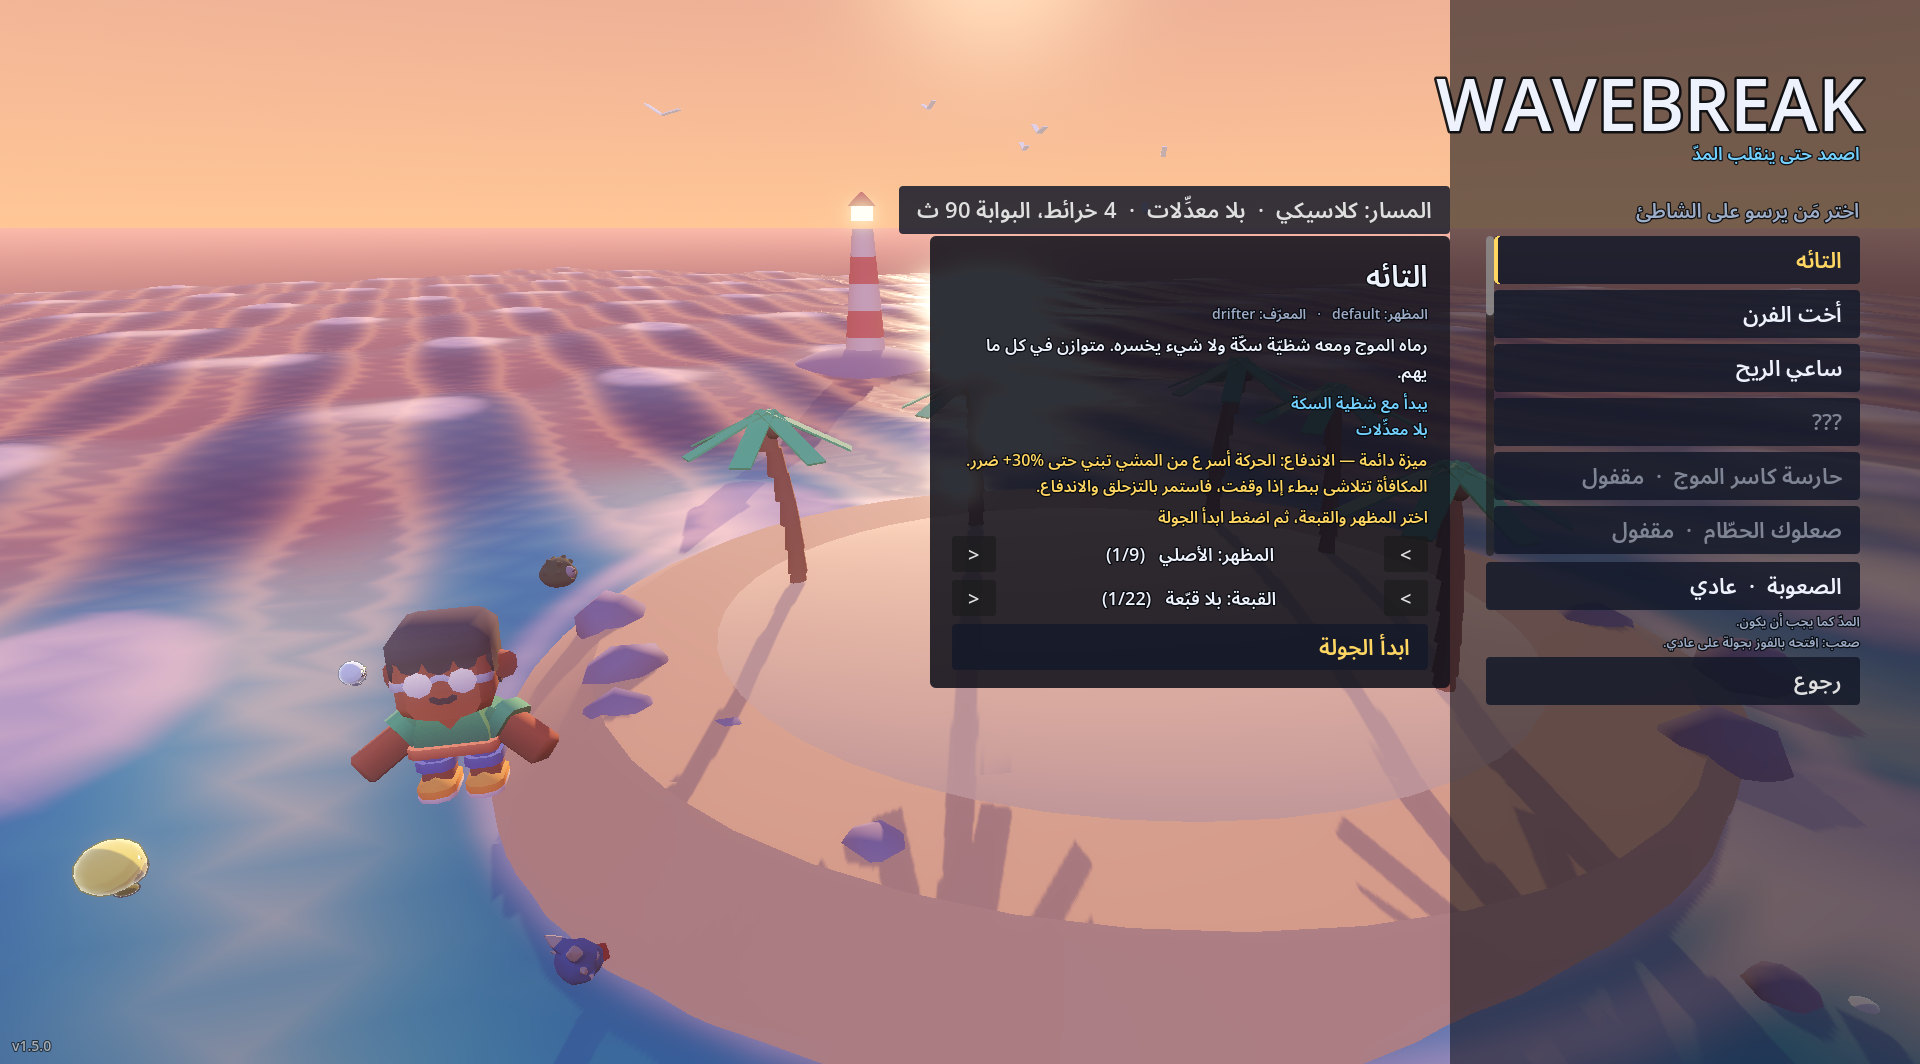
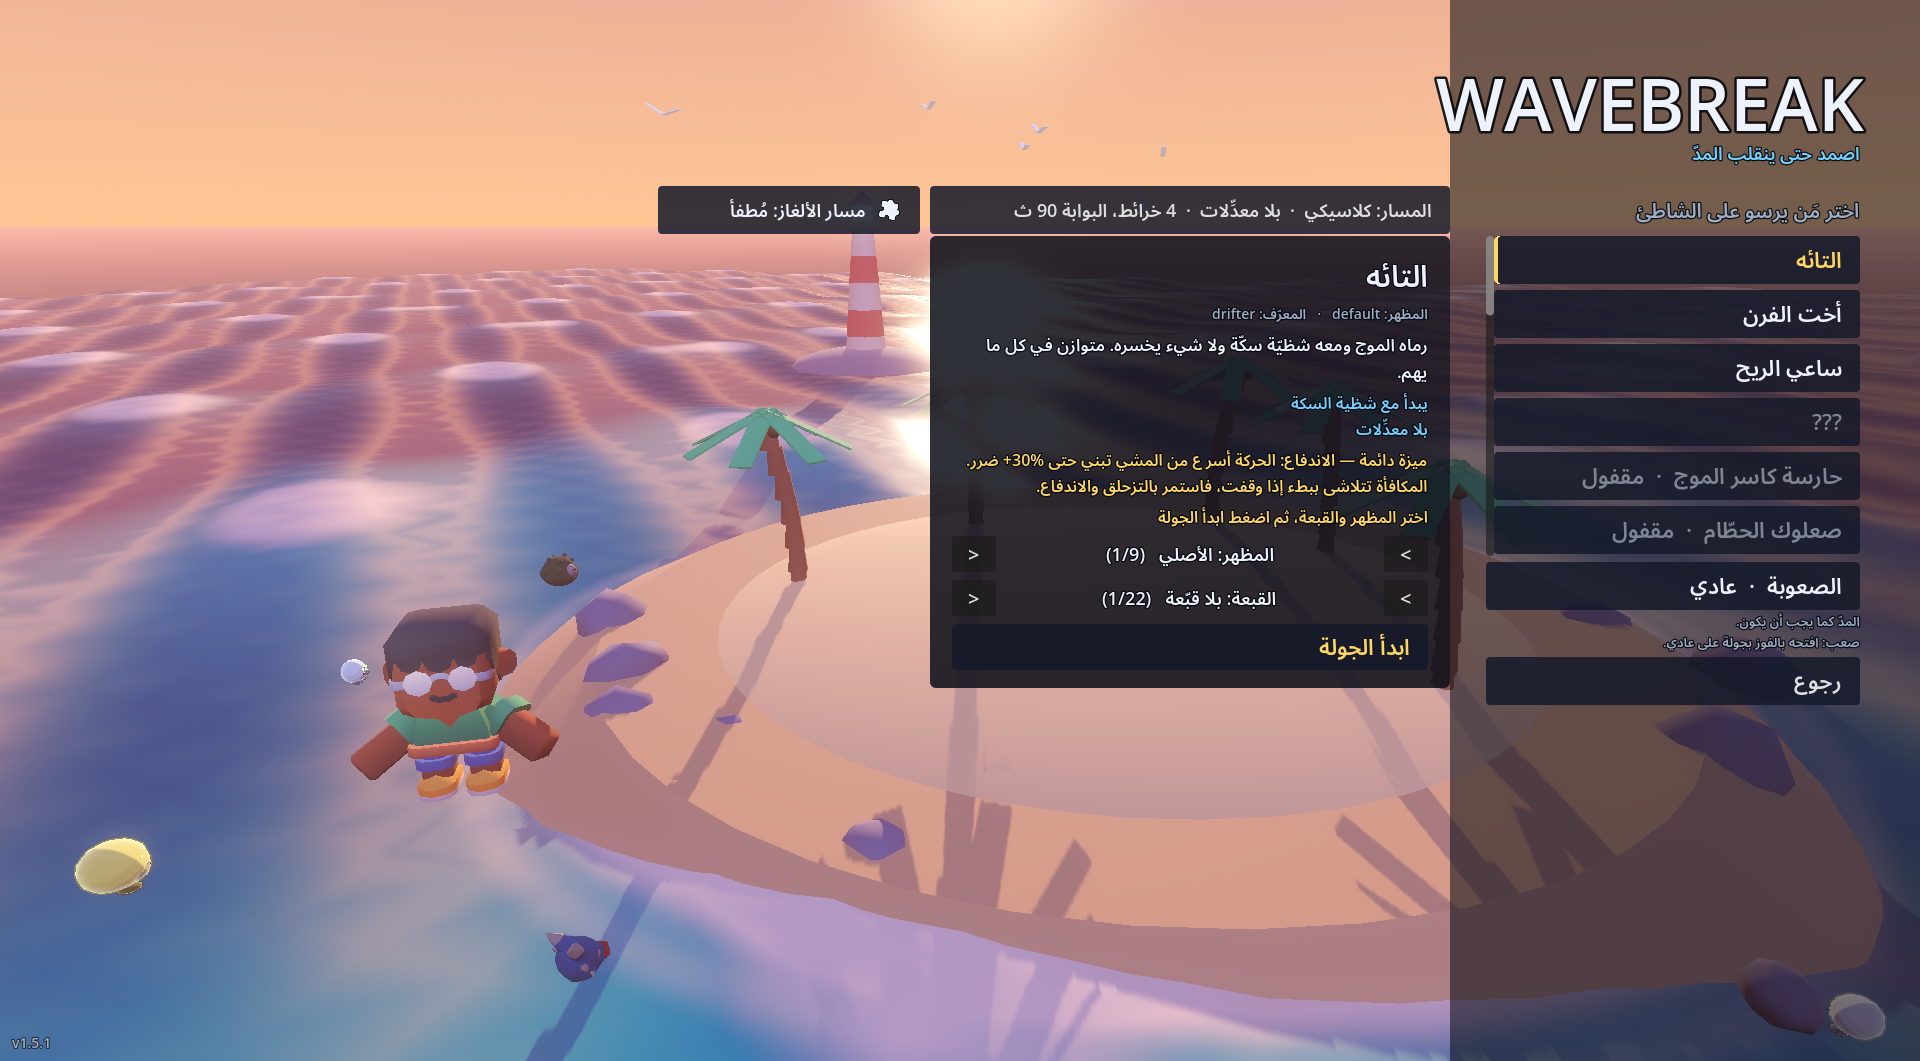
Version 1.5.1: release notes, co-op protocol 16, README and screenshots
project.godot 1.5.1, export presets 1.5.1.0, installer default AppVersion
1.5.1. release-notes/1.5.1.json (enclosed puzzle halls, guards blocked by
pieces, the puzzle route button, textured halls, shorter title card) with
Arabic. Coop.Protocol wavebreak-coop-16: puzzle halls changed what clients
build. README: the PUZZLE ROUTE toggle and the drawn hall surfaces.
Screenshots: puzzle-1 (Bell Room), puzzle-2 (vault), character-select and
arabic-character-select with the new toggle.

diff --git a/scripts/Meta/ArabicText/ArabicText.ReleaseNotes.cs b/scripts/Meta/ArabicText/ArabicText.ReleaseNotes.cs
@@ -41,6 +41,13 @@ public static partial class ArabicText
         ("Endless draws new maps every loop and adds a random twist from loop 2.", "يختار الوضع اللانهائي خرائط جديدة في كل دورة، ويضيف تحوّلاً عشوائياً ابتداءً من الدورة الثانية."),
         ("New accessibility options: colour-blind palettes and reduced flashes. Classic has a short first-run tutorial.", "خيارات وصول جديدة: ألوان لعمى الألوان وتقليل الوميض. وللوضع الكلاسيكي درس قصير عند أول تشغيل."),
         ("Safer saves, and co-op now refuses players on a different version with a clear message. All players must update together.", "حفظ أكثر أماناً، ويرفض اللعب التعاوني الآن اللاعبين بإصدار مختلف برسالة واضحة. يجب أن يحدّث جميع اللاعبين معاً."),
+        ("Puzzle halls and a puzzle route button", "قاعات الألغاز وزر مسار الألغاز"),
+        ("Puzzle maps are now enclosed halls: each room has walls, a ceiling, torches and a door that opens when you solve it, with a short corridor to the next room and a camera that stays inside.", "أصبحت خرائط الألغاز قاعات مغلقة: لكل غرفة جدران وسقف ومشاعل وباب يُفتح حين تحلّها، مع ممر قصير إلى الغرفة التالية وكاميرا تبقى في الداخل."),
+        ("Guards in puzzle rooms no longer walk through crates, mirrors, bells and other pieces.", "لم يعد الحرّاس في غرف الألغاز يعبرون من خلال الصناديق والمرايا والأجراس وغيرها من القطع."),
+        ("New PUZZLE ROUTE button beside the route on the PLAY page and in the CO-OP lobby: one press turns the puzzle route on, another returns to the route you had.", "زر «مسار الألغاز» الجديد بجانب المسار في صفحة اللعب وفي ردهة اللعب التعاوني: ضغطة تفعّل مسار الألغاز، وأخرى تعيدك إلى مسارك السابق."),
+        ("Puzzle halls have stone, brick and timber surfaces instead of flat colours, and each kind of room has its own look.", "صارت لقاعات الألغاز أسطح من الحجر والطوب والخشب بدل الألوان المسطّحة، ولكل نوع من الغرف مظهره الخاص."),
+        ("The puzzle title card fades sooner, so it no longer covers the first door and its prompt.", "تختفي بطاقة عنوان اللغز أسرع، فلم تعد تغطي الباب الأول وتلميحه."),
+        ("Co-op protocol 16: all players must update together.", "بروتوكول اللعب التعاوني 16: يجب أن يحدّث جميع اللاعبين معاً."),
         ("WHAT'S NEW", "ما الجديد"),
         ("LET'S PLAY", "لنلعب"),
         ("Version {0}", "الإصدار {0}"),

diff --git a/scripts/Net/Coop.cs b/scripts/Net/Coop.cs
@@ -47,7 +47,7 @@ public static class Coop
     /// <summary>Protocol tag; a client from another build is turned away
     /// instead of desyncing halfway into a run. It goes into the content hash
     /// that the handshake compares with the game version (<see cref="CoopBuild"/>).</summary>
-    public const string Protocol = "wavebreak-coop-15";   // 15: puzzle route (PuzzleEnter/Set/Clock/Ask/Full, RestEnter after a puzzle); 14: raw build handshake, rejoin identity, map rosters, boss plan, player scaling, evolutions
+    public const string Protocol = "wavebreak-coop-16";   // 16: enclosed puzzle halls (doors, corridors, piece colliders); 15: puzzle route (PuzzleEnter/Set/Clock/Ask/Full, RestEnter after a puzzle); 14: raw build handshake, rejoin identity, map rosters, boss plan, player scaling, evolutions
 
     /// <summary>The public half of a rejoin token.</summary>
     public static string ProofOf(string token)

diff --git a/README.md b/README.md
@@ -49,16 +49,25 @@ Saves, settings and unlocks live in `%APPDATA%\Godot\app_userdata\Wavebreak`.
 
 ## Puzzle route
 
-Pick **Puzzle Route** (Arabic: مسار الألغاز) on the character page's Route &
-Challenges row, or in the co-op lobby. The run plays Classic's maps at Classic's
-difficulty, and before each one comes a **puzzle map**:
+Press **PUZZLE ROUTE: OFF** beside the route bar on the PLAY page (the pad's X
+button does it from anywhere on the page) to turn it **ON** (Arabic: مسار
+الألغاز); press it again to go back to the route you had before, or Classic.
+The same toggle sits beside the route pill on the Route & Challenges page and,
+for the host, in the co-op lobby; the route pill and the lobby's Route arrows
+still step through every route. It is greyed out, with the reason under it,
+while a map challenge or Endless is selected. The run plays Classic's maps at
+Classic's difficulty, and before each one comes a **puzzle map**:
 puzzle, rest stop, map, rest stop, puzzle, and so on to the final boss.
 
 A puzzle map is a chain of three to five rooms drawn from the run's seed, so it
 is different every run; later puzzles and harder tiers add rooms and harder
 pieces. Each room is a closed hall (about 30 m across, 14 m to the ceiling,
 lit by torches and dressed for its puzzle: a workshop, an observatory, a bell
-temple, a foundry...), with the puzzle laid into the middle of its floor. Its
+temple, a foundry...), with the puzzle laid into the middle of its floor. The
+halls are built from drawn surfaces, not flat colours: flagstone floors with
+grout, dressed-stone and brick walls, timber boards and iron plates, each kind
+of room in its own palette (generated once, no downloads; 128 px without
+normal maps on the Low preset, 256 px on Medium and High, 512 px on Ultra). Its
 door stays shut until the room is solved, then slides open onto a short
 corridor to the next room; you only ever see the room you are in. The minimap
 and the Tab map show the rooms you have found:
